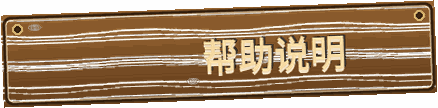
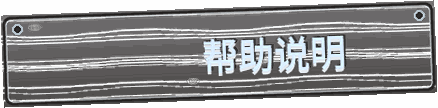
S42.0: index 新视觉变体 v2b 冷调风化（内容运营：换 UI 零 Rust 改动）
改动面：UI 数据（视觉变体 = 同路径替换资产，零 Rust / 零 scenes.json diff）。
用户 2026-11-06 确认 v2b 冷调风化变体（A 纪律设计稿先行 + 视觉签收留痕）。

- 背景：暖金羊皮 (153,116,49) → 灰橄榄褪色 (114,110,93)（实测渲染采样）。
- 木牌：暖橡木 → 青灰风化木；标题与底图烘焙同图（正片叠底），零坐标改动。
- 同路径替换：index_{plank_0..5,bg_map_h,rope}.png 覆盖 v2b 像素，
  资产名/坐标/scenes.json/测试全不动（landscape_drawlist 7/7 pass）。

判据：
- 零 Rust 改动：git diff crates/ = 空（产品源码 + 测试 0 diff）。
- 零 scenes.json 版面改动：git diff assets/data/scenes.json = 空。
- --shot index --viewport=1920x1080 出图 bg 采样 (114,110,93) = v2b 灰橄榄；
  竖屏 0 行为变化（chart_full 1080×1920 / helm 408,838 / medallion_ring 468,498 全过）。
- gate 33 项 0 failure（30 PASS + 2 SKIP android/zero-unknown）；
  明细 evidence/S42.0_gate.log。台账 300/300 verified，doccheck 0 errors。

diff --git a/docs/release.md b/docs/release.md
@@ -236,7 +236,7 @@ cargo run -q -p ti-app --features headless --bin treasure-headless -- --script t
 ## 验收
 
 - `scripts/gate.ps1` 全项绿（门禁项数与口径**单一事实源**见 `docs/parity.md` §代码质量门禁；doccheck / doccheck2 / 台账三方对账 / 业务闭环 / 模块并行 / 飞轮开轮必读 / 视觉回归等独立门禁项已陆续并入，逐项编号见 parity.md，不再在此硬编码）
-- `plan/ledger.yaml` 300 任务（299 verified + S42.0 in_progress；台账计数随 S8–S43 演进，`doccheck` 断言锁定防漂移）（台账实时值，`cargo run -q -p ti-tools --bin ledger` 实测）
+- `plan/ledger.yaml` 300 任务（300 verified；台账计数随 S8–S43 演进，`doccheck` 断言锁定防漂移）（台账实时值，`cargo run -q -p ti-tools --bin ledger` 实测）
 - S5.1 全链路 7 项断言（`tests/game_app_flow.rs`）+ S5.2 headless 全流程 16/16 步（P3-3）
   + S5.3 渲染对齐 5 项（P4-1，`tests/render_parity.rs`）全绿
 - 产物 sha256 记录于 `evidence/S4.4.log` 与 `evidence/S5.4.log`
